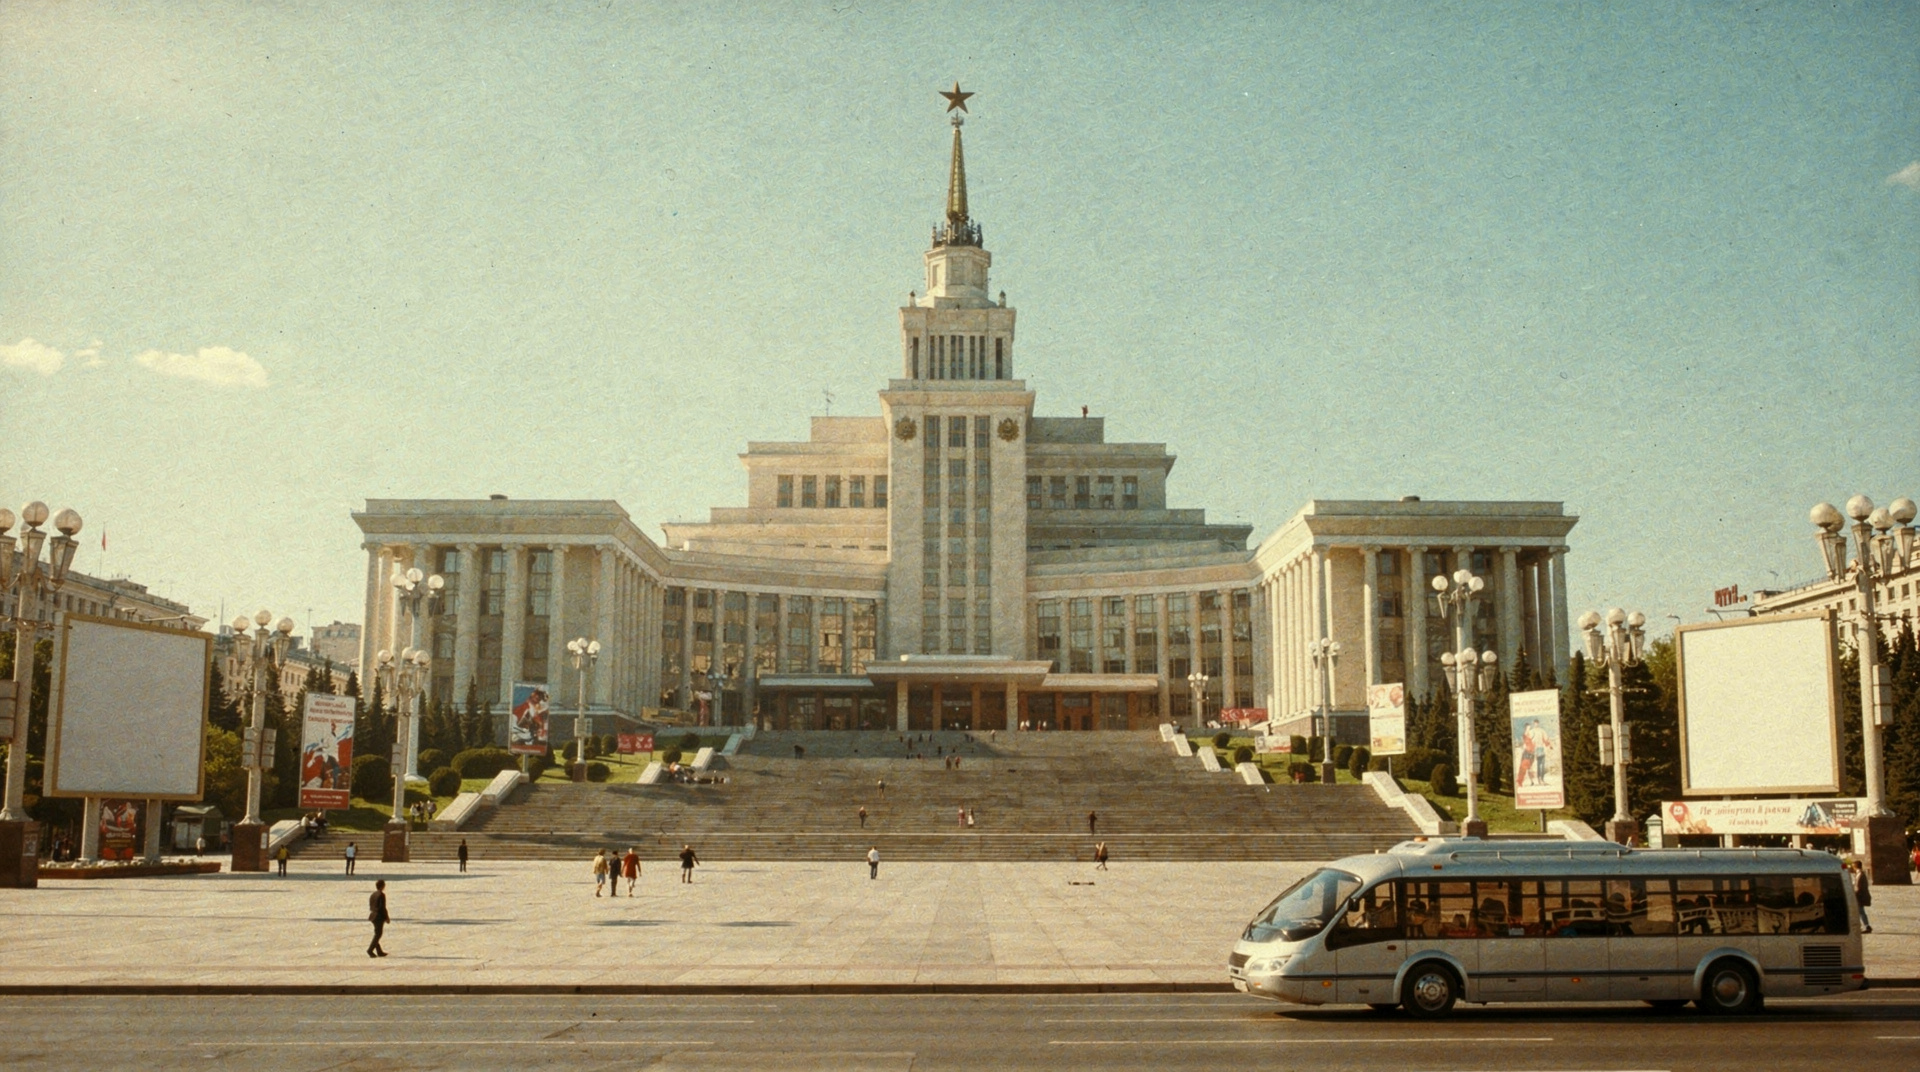
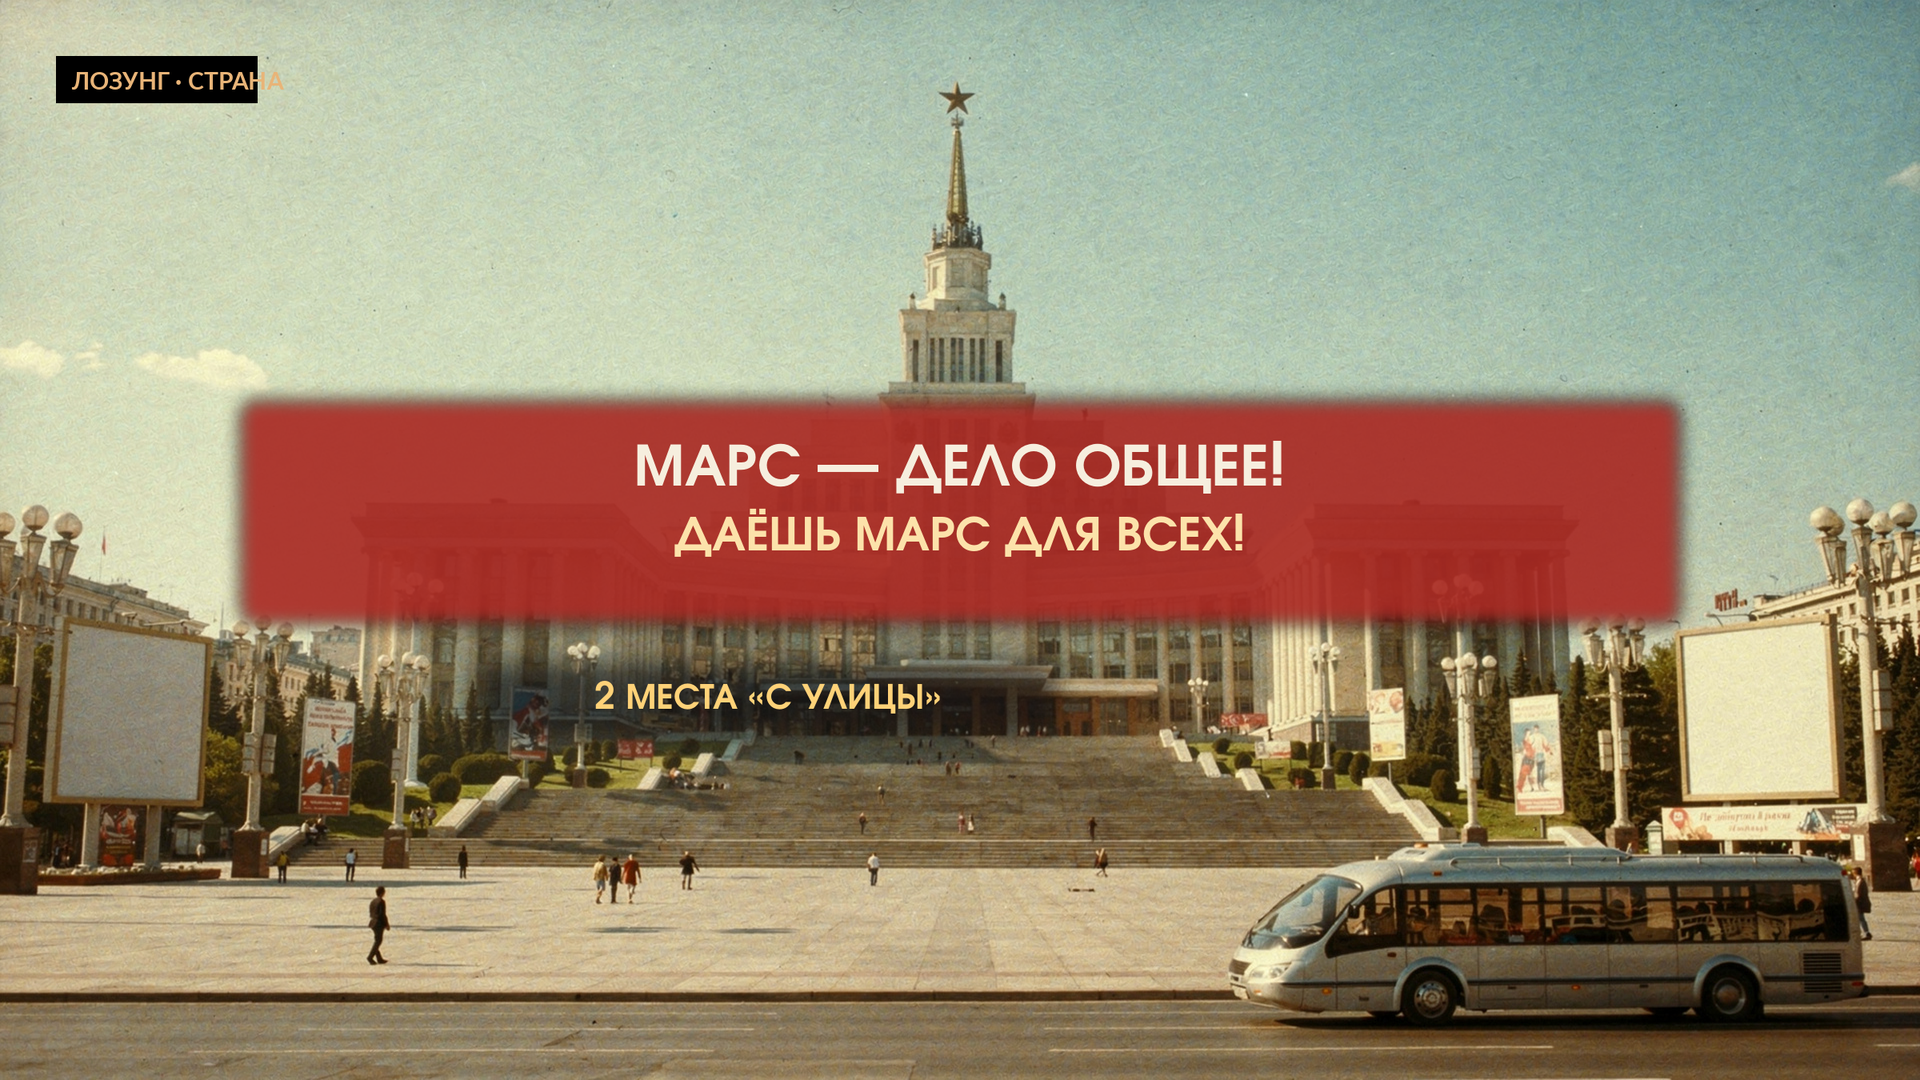
VN эп1 (vn2): S5 закрыт окончательно — заказчик выбрал вариант A лозунга (полоса на фасаде, кегли 76/62, чип «2 МЕСТА С УЛИЦЫ»); перенесено в _prolog_finals.py, vn2 пересобран 0 руб, S1-S4/S6/S7 байт-в-байт, скриншот review_96

Changed region(s): [[0.0938, 0.3386, 0.9062, 0.708], [0.0312, 0.0308, 0.1562, 0.1231]]

diff --git a/_prolog_finals.py b/_prolog_finals.py
@@ -128,12 +128,18 @@ def build(n):
                                   font=F(LATO_B, 52), fill=CREAM, anchor='mm')
         base = tag(base, 'ВИДЕОРОЛИК · НАРЕЗКА')
     elif n == 's5':
-        base = soft(base, (300, 500, 2100, 780), (168, 40, 34), 232, blur=10)
+        # ВАРИАНТ A (выбран заказчиком 2026-10-17): полоса лозунга на фасаде.
+        # Геометрия и кегли = лист review_97_s5_banner_ab.png (_prolog_s5_banner_ab.py, CONF['A']).
+        band = (300, 500, 2100, 780)
+        base = soft(base, band, (168, 40, 34), 232, blur=10)
         d = ImageDraw.Draw(base)
-        d.text((1200, 580), 'МАРС — ДЕЛО ОБЩЕЕ!', font=F(GOTHIC, 92), fill=CREAM, anchor='ma')
-        d.text((1200, 700), 'ДАЁШЬ МАРС ДЛЯ ВСЕХ!', font=F(GOTHIC, 76), fill=(252, 226, 170), anchor='ma')
-        base = soft(base, (820, 830, 1580, 920), (6, 8, 14), 150, blur=14)
-        ImageDraw.Draw(base).text((1200, 876), '2 МЕСТА «С УЛИЦЫ»', font=F(GOTHIC, 54), fill=(255, 210, 120), anchor='mm')
+        cx, y0 = (band[0] + band[2]) / 2, band[1]
+        d.text((cx, y0 + 50), 'МАРС — ДЕЛО ОБЩЕЕ!', font=F(GOTHIC, 76), fill=CREAM, anchor='ma')
+        d.text((cx, y0 + 142), 'ДАЁШЬ МАРС ДЛЯ ВСЕХ!', font=F(GOTHIC, 62), fill=(252, 226, 170), anchor='ma')
+        chip = (600, 830, 1320, 920)
+        base = soft(base, chip, (6, 8, 14), 150, blur=14)
+        ImageDraw.Draw(base).text(((chip[0] + chip[2]) / 2, (chip[1] + chip[3]) / 2),
+                                  '2 МЕСТА «С УЛИЦЫ»', font=F(GOTHIC, 46), fill=(255, 210, 120), anchor='mm')
         base = tag(base, 'ЛОЗУНГ · СТРАНА')
     elif n == 's6':
         base = soft(base, (1880, 84, 2310, 214), (8, 10, 14), 200, blur=12)

diff --git a/PROLOG_FIXES.md b/PROLOG_FIXES.md
@@ -67,7 +67,8 @@
 - **АРХИВ ОТВЕРГНУТЫХ:** `assets/rejected/` (+ `REJECTED.md`), скрипты `_archive_rejected.py` / `_archive_s5b.py`.
   Правило: НИЧЕГО не удаляем — отклонённые кадры переносим в архив с причиной.
 - **БАГ ПОКАЗА (2026-10-17):** лист `review_95_s5_vn.png` снимался с `?node=5`, а в `content.js` индексы узлов идут с титула и значка: **0 титул, 1 значок, 2=s1, 3=s2, 4=s3, 5=s4, 6=s5, 7=s6, 8=s7, 9 приёмная** → заказчику был показан **S4** (комната с Марсом), а не S5. Исправлено: `_s5_shot.py` (node=6) + универсальный `_vn_shot_node.py s1..s7|reception`. Верный скриншот — `assets/review/review_96_s5_vn_ok.png` (сверено: MAE 28 к плашке S5 против 79 к S4). Плашка и файлы были верными всё время — врал только скриншот.
-- **ОТКРЫТО по S5:** лозунг-полоса ложится на фасад (y 500..780 из 1350 = 37–58 % кадра). Бесплатные варианты размещения: `_prolog_s5_banner_ab.py` → лист `review_97_s5_banner_ab.png` (A — как сейчас на фасаде · B — лента на площади одной строкой · B2 — двумя строками). Ждём выбора, затем переносим в `_prolog_finals.py` (`build('s5')`) и пересобираем vn2 (0 ₽).
+- **ОТКРЫТО по S5** → **ЗАКРЫТО 2026-10-17 (выбран вариант A)** — см. ниже.
+- **S5 ЗАКРЫТ ОКОНЧАТЕЛЬНО (2026-10-17): заказчик выбрал ВАРИАНТ A** — полоса лозунга на фасаде. Перенесено в `_prolog_finals.py` (`build('s5')`): band (300,500,2100,780) alpha 232, кегли 76/62 (было 92/76), чип «2 МЕСТА С УЛИЦЫ» (600,830,1320,920) кегль 46. Пересобрано 0 ₽ (плашка из кэша), vn2 пересобран (10 узлов / 63 страницы), контрольный скриншот `review_96_s5_vn_ok.png`. Остальные кадры S1–S4/S6/S7 пересобрались БАЙТ-В-БАЙТ (не тронуты).
 
 ### S6 — очередь-1 · «это в банк очередь, а не на проходню; девяностые и мрачно» → ДЕЛАЕМ
 - Сделать: утро, очередь именно **к проходной** (видно КПП/ворота/вывеску), светлее, оптимистичнее.
